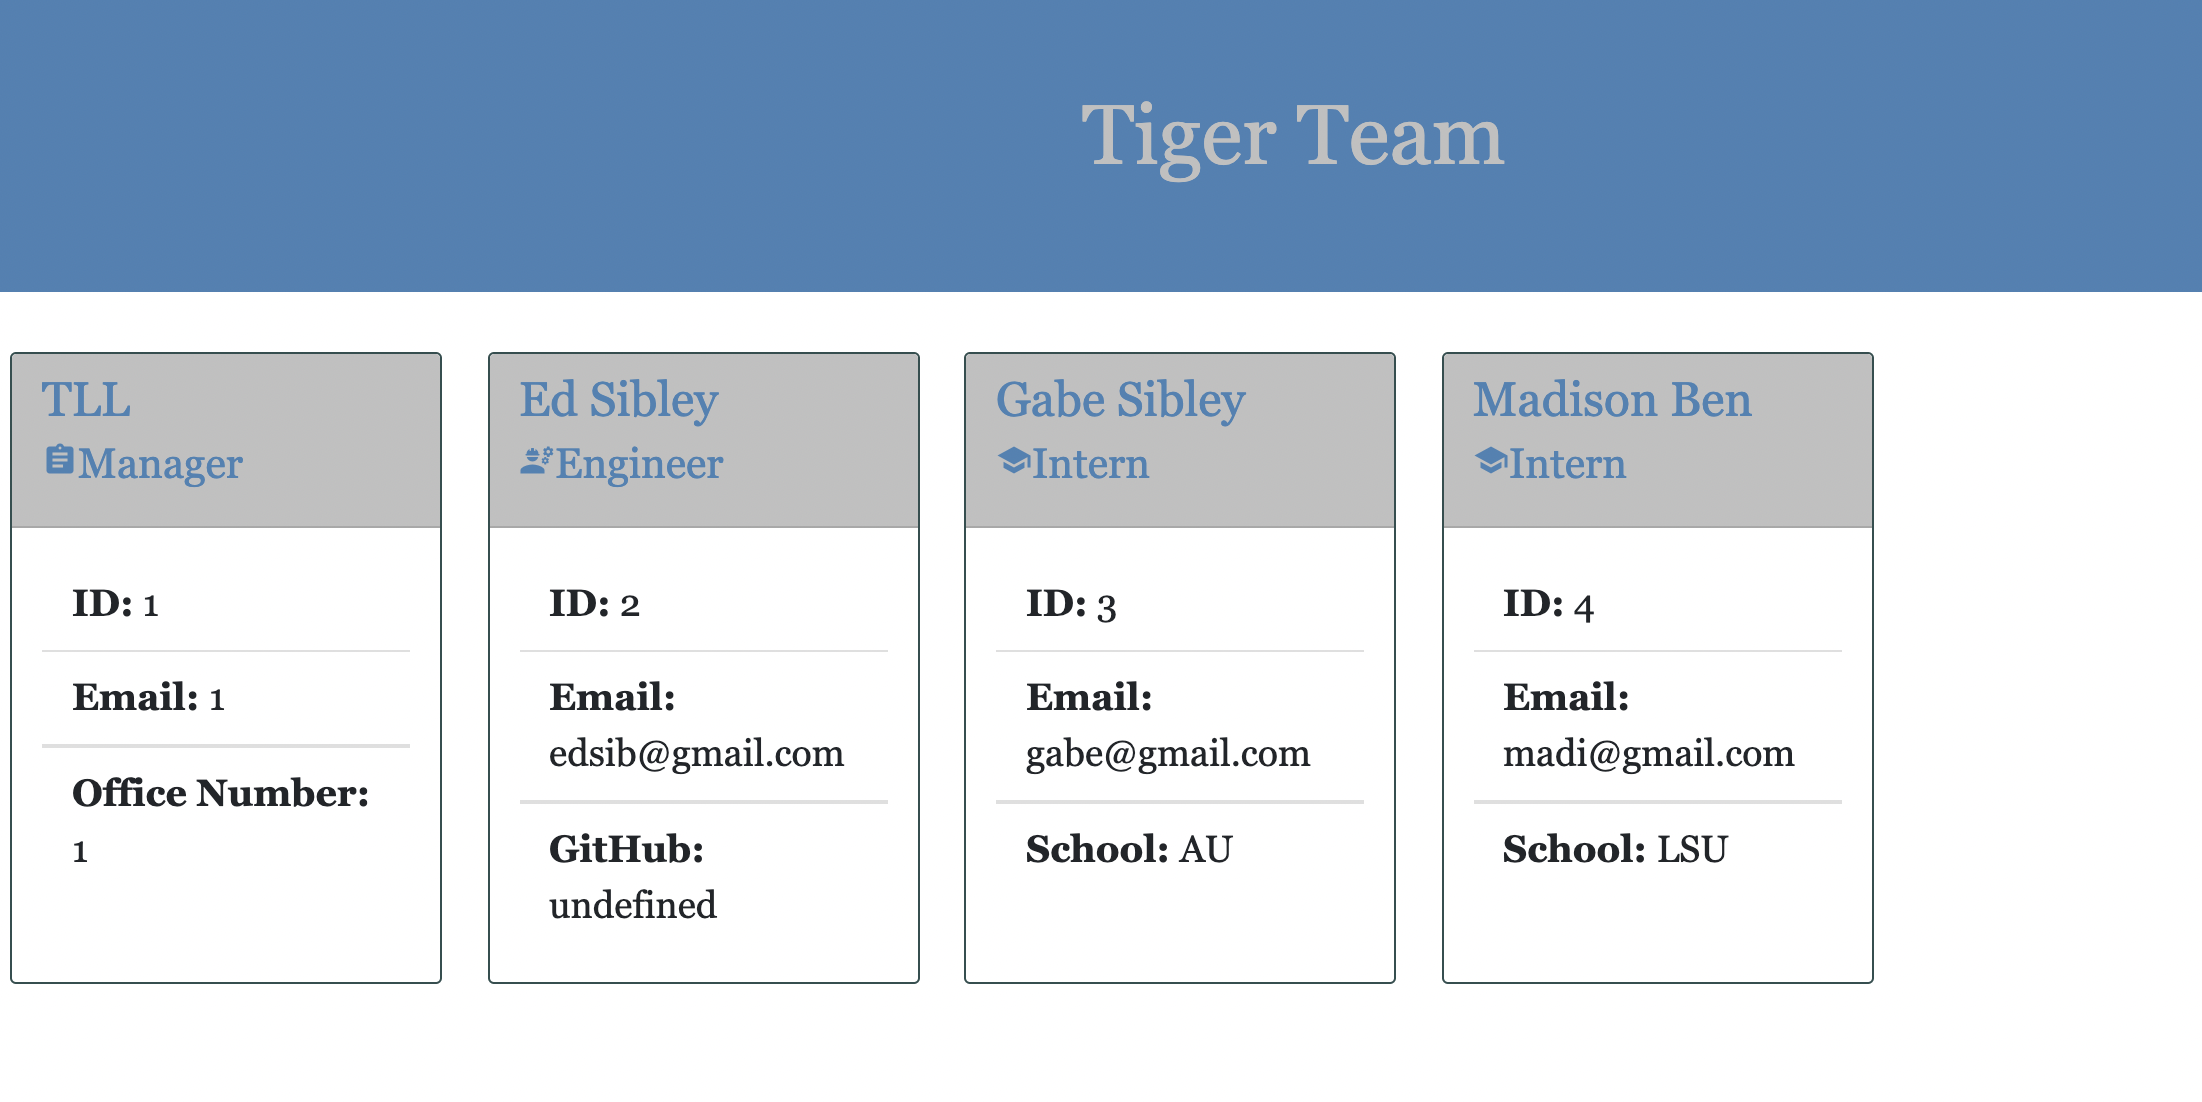
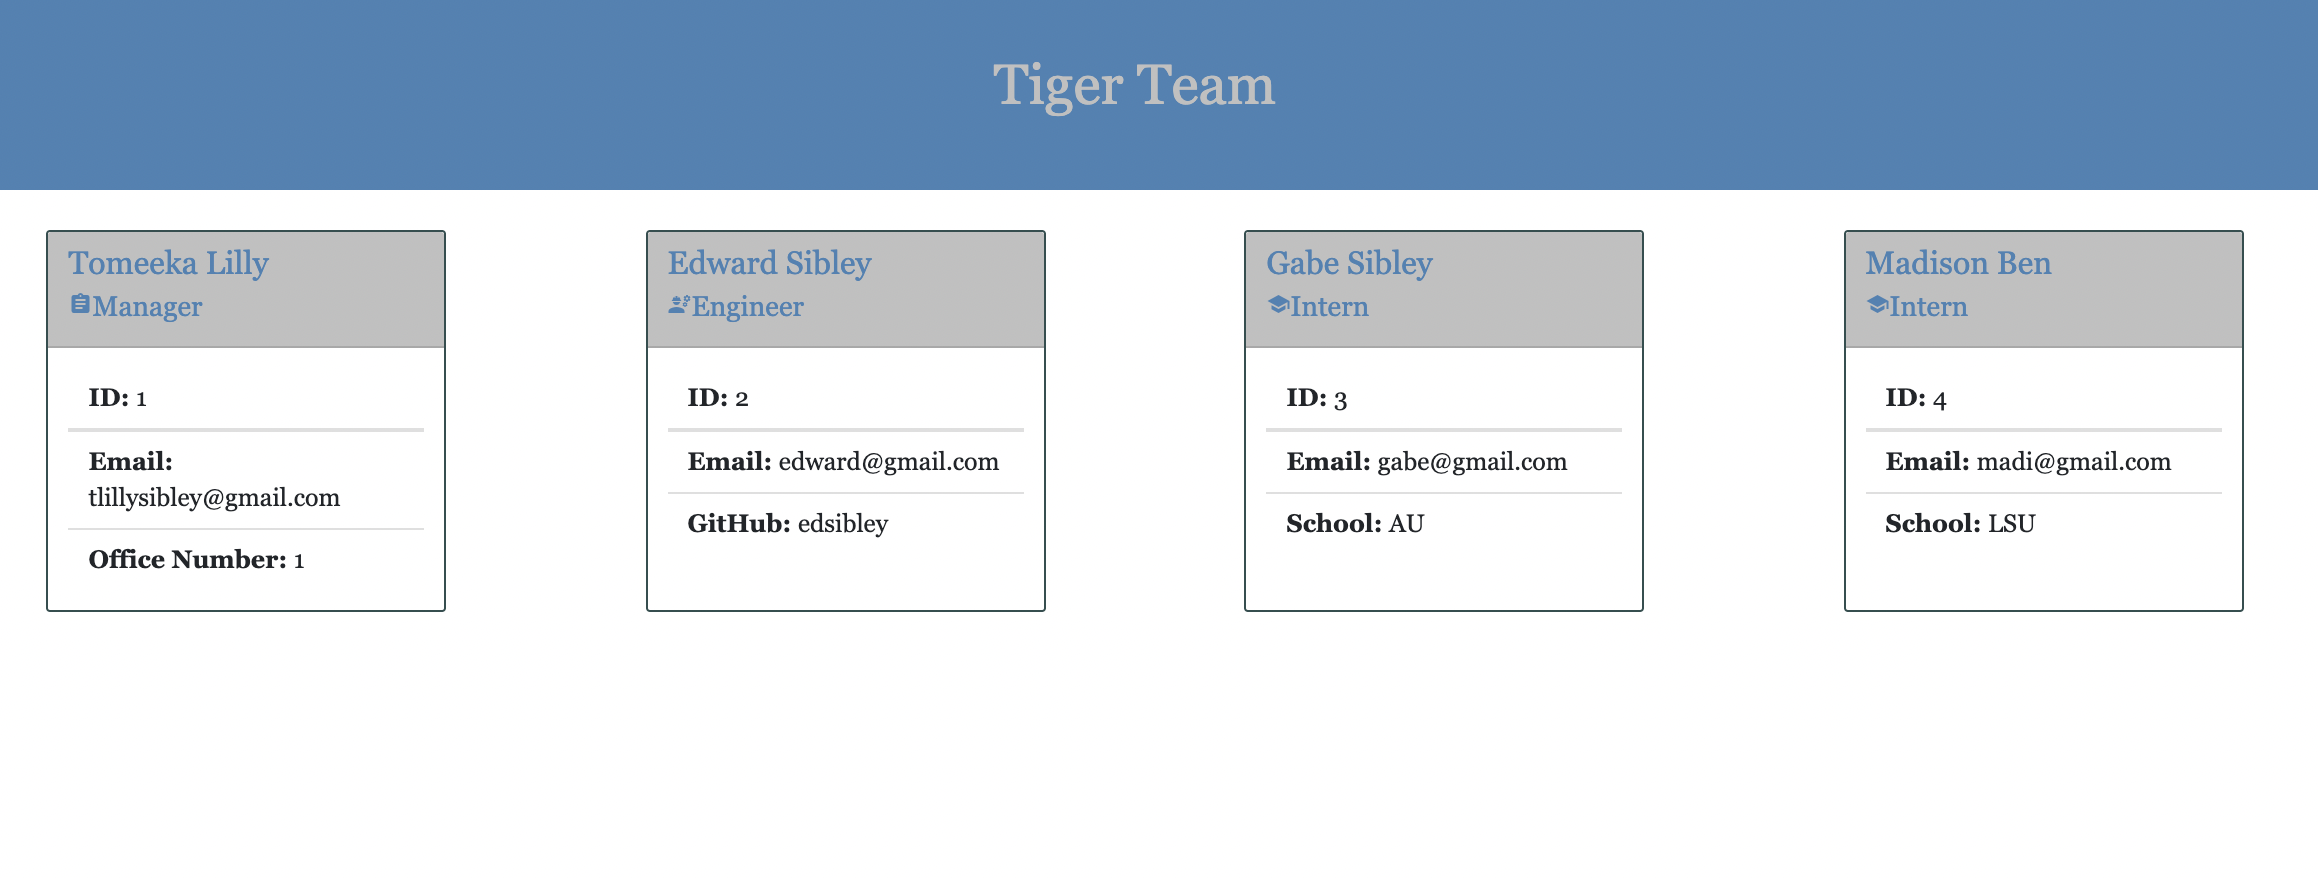
Update README with screenshot

diff --git a/output/myTeam.html b/output/myTeam.html
@@ -23,35 +23,35 @@
          <section>
             <div class="card-deck" id="roles">
 
-            <div class="card" style="max-width: 18rem;">
+            <div class="card" style="max-width: 25rem;">
     <div class="employeeCard">
         <div class="card-header">
-            <h2>TLL</h2>
+            <h2>Tomeeka Lilly</h2>
             <h3 class="card-title"><span class="material-icons">assignment</span>Manager</h3>
         </div>
         <div class="card-body">
             <ul class="list-group list-group-flush">
-                <li class="list-group-item"><strong>ID:</strong> 1</li>
-                <li class="list-group-item"><strong>Email: </strong> 1</li>
-                <li class="list-group-item"><strong>Office Number:</strong> 1</li>
+                <li class="list-group-item"><strong>ID: </strong>1</li>
+                <li class="list-group-item"><strong>Email: </strong>tlillysibley@gmail.com</li>
+                <li class="list-group-item"><strong>Office Number: </strong>1</li>
             </ul>
         </div>                
     </div>
-</div><div class="card" style="max-width: 18rem;">
+</div><div class="card" style="max-width: 25rem;">
     <div class="employeeCard">
         <div class="card-header">
-            <h2>Ed Sibley</h2>
+            <h2>Edward Sibley</h2>
             <h3 class="card-title"><span class="material-icons">engineering</span>Engineer</h3>
         </div>
         <div class="card-body">
             <ul class="list-group list-group-flush">
-                <li class="list-group-item"><strong>ID:</strong> 2</li>
-                <li class="list-group-item"><strong>Email: </strong> edsib@gmail.com</li>
-                <li class="list-group-item"><strong>GitHub:</strong> undefined</li>
+                <li class="list-group-item"><strong>ID: </strong>2</li>
+                <li class="list-group-item"><strong>Email: </strong>edward@gmail.com</li>
+                <li class="list-group-item"><strong>GitHub: </strong>edsibley</li>
             </ul>
         </div>                
     </div>
-</div><div class="card" style="max-width: 18rem;">
+</div><div class="card" style="max-width: 25rem;">
     <div class="employeeCard">
         <div class="card-header">
             <h2>Gabe Sibley</h2>
@@ -59,13 +59,13 @@
         </div>
         <div class="card-body">
             <ul class="list-group list-group-flush">
-                <li class="list-group-item"><strong>ID:</strong> 3</li>
-                <li class="list-group-item"><strong>Email: </strong> gabe@gmail.com</li>
-                <li class="list-group-item"><strong>School: </strong> AU</li>
+                <li class="list-group-item"><strong>ID: </strong>3</li>
+                <li class="list-group-item"><strong>Email: </strong>gabe@gmail.com</li>
+                <li class="list-group-item"><strong>School: </strong>AU</li>
             </ul>
         </div>                
     </div>
-</div><div class="card" style="max-width: 18rem;">
+</div><div class="card" style="max-width: 25rem;">
     <div class="employeeCard">
         <div class="card-header">
             <h2>Madison Ben</h2>
@@ -73,9 +73,9 @@
         </div>
         <div class="card-body">
             <ul class="list-group list-group-flush">
-                <li class="list-group-item"><strong>ID:</strong> 4</li>
-                <li class="list-group-item"><strong>Email: </strong> madi@gmail.com</li>
-                <li class="list-group-item"><strong>School: </strong> LSU</li>
+                <li class="list-group-item"><strong>ID: </strong>4</li>
+                <li class="list-group-item"><strong>Email: </strong>madi@gmail.com</li>
+                <li class="list-group-item"><strong>School: </strong>LSU</li>
             </ul>
         </div>                
     </div>

diff --git a/src/generateHTML.js b/src/generateHTML.js
@@ -1,5 +1,5 @@
 function cardManager(data) {
-    return `<div class="card" style="max-width: 18rem;">
+    return `<div class="card" style="max-width: 25rem;">
     <div class="employeeCard">
         <div class="card-header">
             <h2>${data.name}</h2>
@@ -7,9 +7,9 @@ function cardManager(data) {
         </div>
         <div class="card-body">
             <ul class="list-group list-group-flush">
-                <li class="list-group-item"><strong>ID:</strong> ${data.id}</li>
-                <li class="list-group-item"><strong>Email: </strong> ${data.officeNumber}</li>
-                <li class="list-group-item"><strong>Office Number:</strong> 1</li>
+                <li class="list-group-item"><strong>ID: </strong>${data.id}</li>
+                <li class="list-group-item"><strong>Email: </strong>${data.email}</li>
+                <li class="list-group-item"><strong>Office Number: </strong>${data.officeNumber}</li>
             </ul>
         </div>                
     </div>
@@ -18,7 +18,7 @@ function cardManager(data) {
 
 
 function cardEngineer(data) {
-    return `<div class="card" style="max-width: 18rem;">
+    return `<div class="card" style="max-width: 25rem;">
     <div class="employeeCard">
         <div class="card-header">
             <h2>${data.name}</h2>
@@ -26,9 +26,9 @@ function cardEngineer(data) {
         </div>
         <div class="card-body">
             <ul class="list-group list-group-flush">
-                <li class="list-group-item"><strong>ID:</strong> ${data.id}</li>
-                <li class="list-group-item"><strong>Email: </strong> ${data.email}</li>
-                <li class="list-group-item"><strong>GitHub:</strong> ${data.gitHub}</li>
+                <li class="list-group-item"><strong>ID: </strong>${data.id}</li>
+                <li class="list-group-item"><strong>Email: </strong>${data.email}</li>
+                <li class="list-group-item"><strong>GitHub: </strong>${data.github}</li>
             </ul>
         </div>                
     </div>
@@ -37,7 +37,7 @@ function cardEngineer(data) {
 
 
 function cardIntern(data) {
-    return `<div class="card" style="max-width: 18rem;">
+    return `<div class="card" style="max-width: 25rem;">
     <div class="employeeCard">
         <div class="card-header">
             <h2>${data.name}</h2>
@@ -45,9 +45,9 @@ function cardIntern(data) {
         </div>
         <div class="card-body">
             <ul class="list-group list-group-flush">
-                <li class="list-group-item"><strong>ID:</strong> ${data.id}</li>
-                <li class="list-group-item"><strong>Email: </strong> ${data.email}</li>
-                <li class="list-group-item"><strong>School: </strong> ${data.school}</li>
+                <li class="list-group-item"><strong>ID: </strong>${data.id}</li>
+                <li class="list-group-item"><strong>Email: </strong>${data.email}</li>
+                <li class="list-group-item"><strong>School: </strong>${data.school}</li>
             </ul>
         </div>                
     </div>

diff --git a/index.js b/index.js
@@ -30,7 +30,7 @@ createManager = () => {
         message: "What is the manager's office number?",
       },
     ])
-    .then(({ name, id, email, officeNumber }) => {
+    .then(({ name, id, email, officeNumber}) => {
       const manager = new Manager(name, id, email, officeNumber);
       teamMembers.push(manager);
       console.log(manager);
@@ -58,12 +58,12 @@ createEngineer = () => {
       },
       {
         type: "input",
-        name: "gitHub",
+        name: "github",
         message: "Enter the engineer's Github username:",
       },
     ])
-    .then(({ name, id, email, gitHub }) => {
-      const engineer = new Engineer(name, id, email, gitHub);
+    .then(({ name, id, email, github }) => {
+      const engineer = new Engineer(name, id, email, github);
       teamMembers.push(engineer);
       console.log(engineer);
       menu();
@@ -94,7 +94,7 @@ createIntern = () => {
         message: "Enter the school the intern attends:",
       },
     ])
-    .then(({ name, id, email, school }) => {
+    .then(({ name, id, email, school}) => {
       const intern = new Intern(name, id, email, school);
       teamMembers.push(intern);
       console.log(intern);

diff --git a/output/style.css b/output/style.css
@@ -14,6 +14,7 @@
 
 .card-deck {
     margin-left: 5px;
+    justify-content: space-around;
 }
 
 .card {
